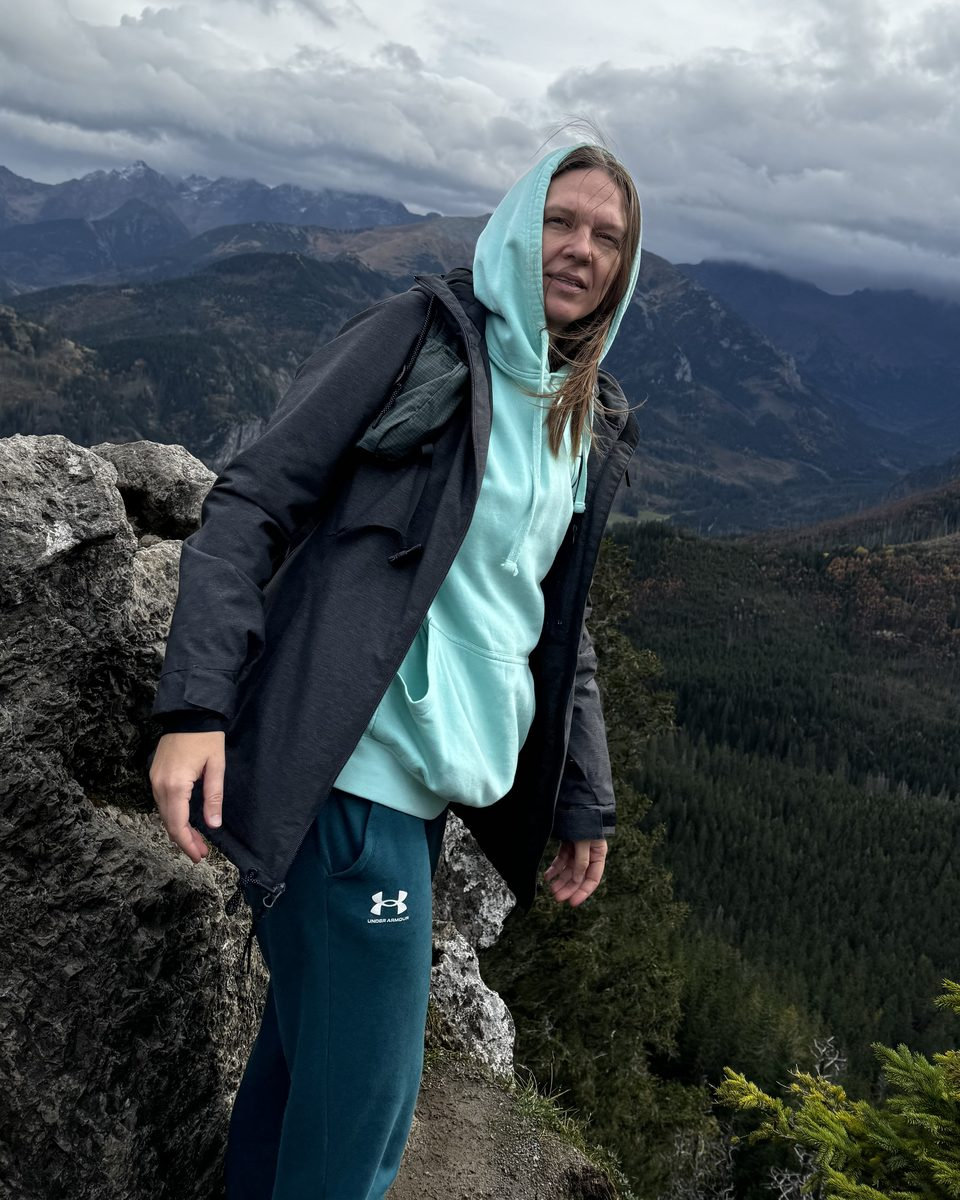
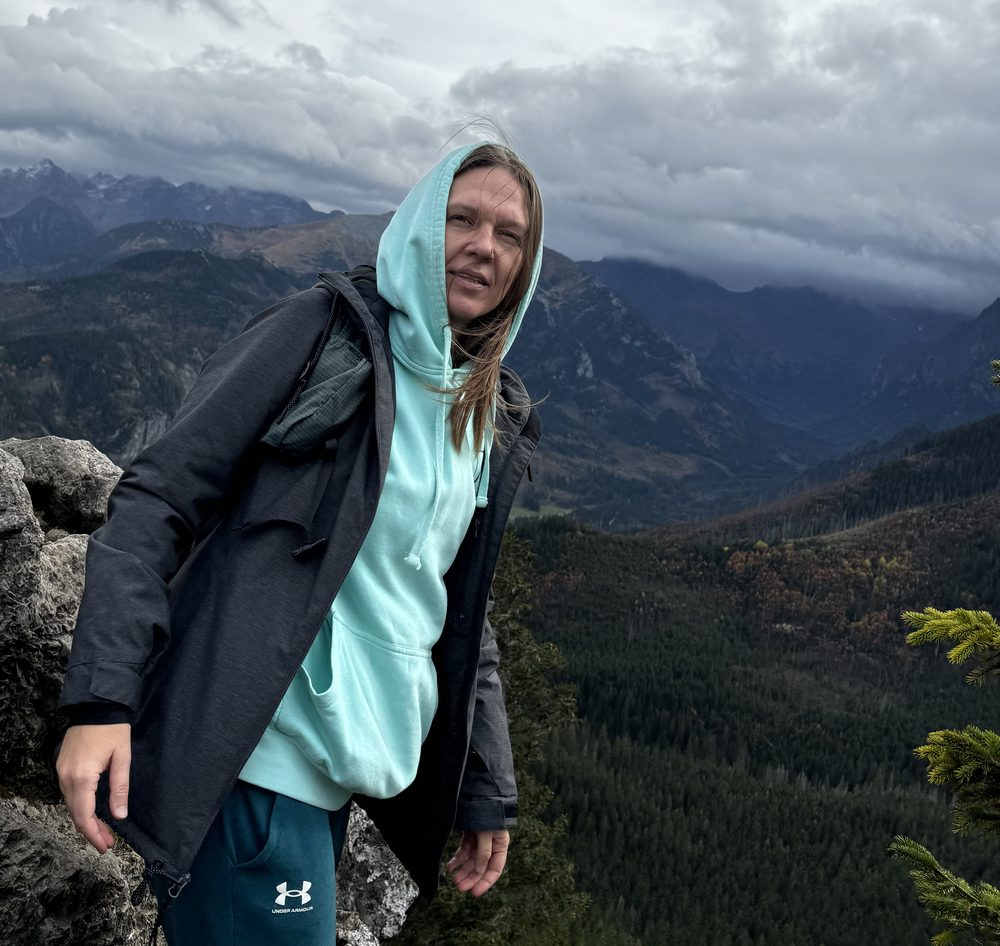
Recrop portrait, put About text beside it
Claude-Session: https://claude.ai/code/session_01HnLeA5fdJc4KRBdBb9Gtin

diff --git a/index.html b/index.html
@@ -140,8 +140,9 @@ nav a.link:hover { color: var(--ink); background: var(--tint); }
 .offer p { color: var(--muted); font-size: 16px; }
 
 /* About + contact */
-.about { display: grid; grid-template-columns: 1fr 1fr; gap: clamp(28px, 6vw, 80px); }
-.portrait { display: block; width: 100%; max-width: 380px; height: auto; aspect-ratio: 4 / 5; object-fit: cover; margin-top: 28px; border-radius: var(--r-lg); border: 1px solid var(--edge); }
+.about { display: grid; grid-template-columns: 1.1fr 1fr; gap: clamp(28px, 5vw, 64px); align-items: center; }
+.portrait { display: block; width: 100%; height: auto; border-radius: var(--r-lg); border: 1px solid var(--edge); }
+.about-text { margin-top: 20px; }
 .about p + p { margin-top: 14px; }
 .about .muted { color: var(--muted); }
 .contact { background: var(--accent); color: var(--accent-ink); border-radius: var(--r-lg); padding: clamp(28px, 5vw, 64px); display: grid; gap: 20px; }
@@ -333,15 +334,15 @@ footer { padding-block: 40px 56px; color: var(--muted); font-size: 14px; }
 
   <section id="about">
     <div class="wrap about">
+      <img class="portrait" src="photo.jpg" width="1000" height="946" alt="Darya in the mountains" loading="lazy">
       <div>
         <p class="label" data-i18n="ab_l">About</p>
         <h2 style="margin-top:14px" data-i18n="ab_h">Hi, I'm Darya</h2>
-        <img class="portrait" src="photo.jpg" width="960" height="1200" alt="Darya in the mountains" loading="lazy">
-      </div>
-      <div>
+        <div class="about-text">
         <p data-i18n="ab_p1">I live in Warsaw. I spent 8+ years on the agency side, running projects from brief to delivery for international brands, then moved in-house to marketing.</p>
         <p data-i18n="ab_p2">I like numbers and plain words, and I will tell you when something is not working.</p>
         <p class="muted" data-i18n="ab_p3">English and Russian, Ukrainian understood, Polish at A2.</p>
+        </div>
       </div>
     </div>
   </section>
